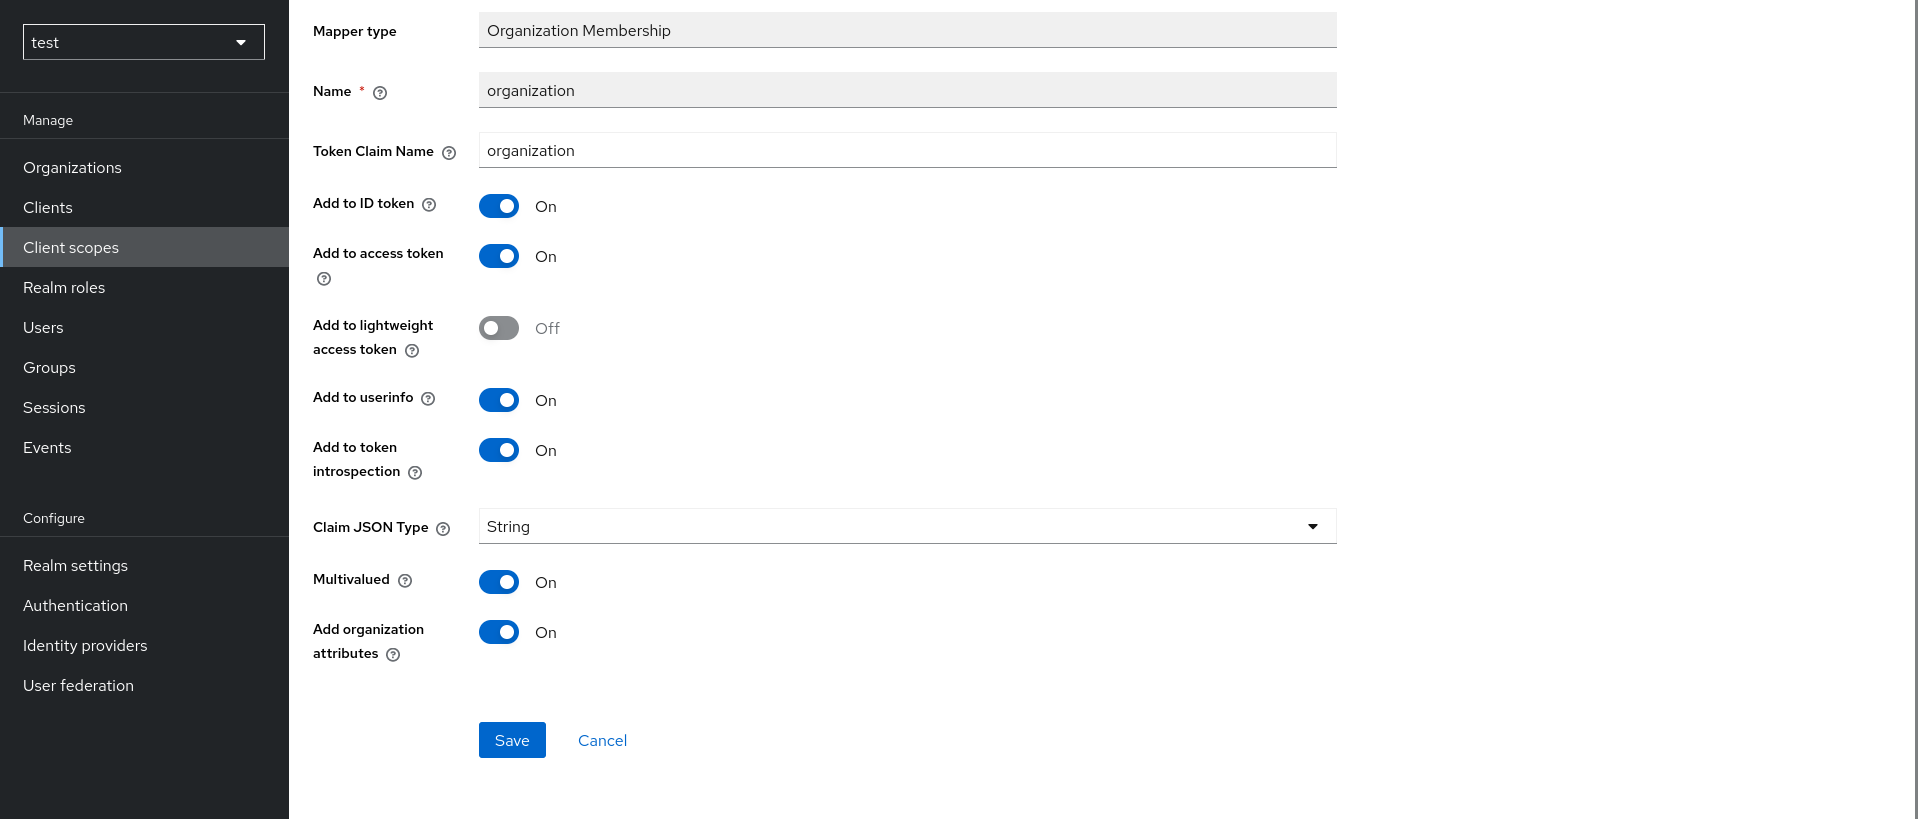
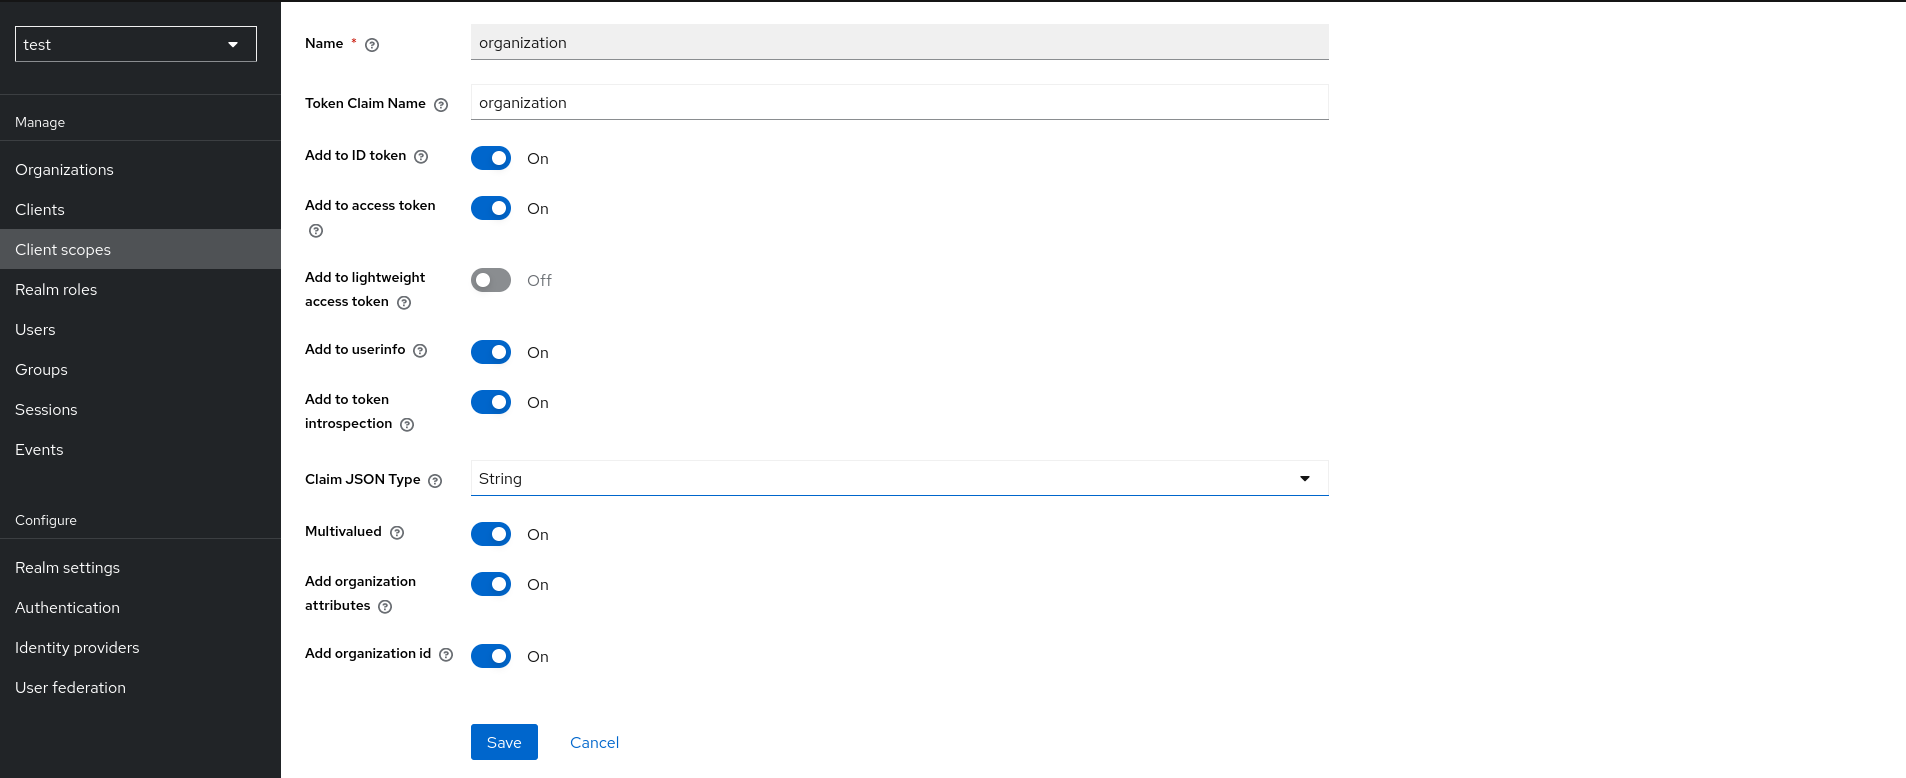
Add option to include the organization id in the organization claims
Closes #32746

diff --git a/testsuite/integration-arquillian/tests/base/src/test/java/org/keycloak/testsuite/organization/mapper/OrganizationOIDCProtocolMapperTest.java b/testsuite/integration-arquillian/tests/base/src/test/java/org/keycloak/testsuite/organization/mapper/OrganizationOIDCProtocolMapperTest.java
@@ -20,6 +20,7 @@ package org.keycloak.testsuite.organization.mapper;
 import static org.hamcrest.MatcherAssert.assertThat;
 import static org.hamcrest.Matchers.containsInAnyOrder;
 import static org.hamcrest.Matchers.containsString;
+import static org.hamcrest.Matchers.equalTo;
 import static org.hamcrest.Matchers.hasItem;
 import static org.hamcrest.Matchers.is;
 import static org.hamcrest.Matchers.not;
@@ -448,6 +449,47 @@ public class OrganizationOIDCProtocolMapperTest extends AbstractOrganizationTest
         accessToken = TokenVerifier.create(response.getAccessToken(), AccessToken.class).getToken();
         assertThat(accessToken.getOtherClaims().keySet(), hasItem(OAuth2Constants.ORGANIZATION));
         organizations = (Map<String, Map<String, List<String>>>) accessToken.getOtherClaims().get(OAuth2Constants.ORGANIZATION);
+        assertThat(organizations.keySet(), hasItem(organizationName));
+        assertThat(organizations.get(organizationName).keySet().isEmpty(), is(true));
+    }
+
+    @Test
+    @SuppressWarnings("unchecked")
+    public void testIncludeOrganizationId() throws Exception {
+        OrganizationRepresentation orgRep = createOrganization();
+        OrganizationResource organization = testRealm().organizations().get(orgRep.getId());
+        addMember(organization);
+        setMapperConfig(OrganizationMembershipMapper.ADD_ORGANIZATION_ID, Boolean.TRUE.toString());
+
+        oauth.clientId("direct-grant");
+        oauth.scope("openid organization");
+        AccessTokenResponse response = oauth.doGrantAccessTokenRequest("password", memberEmail, memberPassword);
+        assertThat(response.getScope(), containsString("organization"));
+        AccessToken accessToken = TokenVerifier.create(response.getAccessToken(), AccessToken.class).getToken();
+        assertThat(accessToken.getOtherClaims().keySet(), hasItem(OAuth2Constants.ORGANIZATION));
+        Map<String, Map<String, String>> organizations = (Map<String, Map<String, String>>) accessToken.getOtherClaims().get(OAuth2Constants.ORGANIZATION);
+        assertThat(organizations.keySet(), hasItem(organizationName));
+        assertThat(organizations.get(organizationName).keySet(), hasItem("id"));
+        assertThat(organizations.get(organizationName).get("id"), equalTo(orgRep.getId()));
+
+        // when id is added to tokens, the claim type is a json regardless of the value set in the config
+        setMapperConfig(OrganizationMembershipMapper.ADD_ORGANIZATION_ID, Boolean.TRUE.toString());
+        setMapperConfig(OIDCAttributeMapperHelper.JSON_TYPE, "boolean");
+        response = oauth.doGrantAccessTokenRequest("password", memberEmail, memberPassword);
+        accessToken = TokenVerifier.create(response.getAccessToken(), AccessToken.class).getToken();
+        assertThat(accessToken.getOtherClaims().keySet(), hasItem(OAuth2Constants.ORGANIZATION));
+        organizations = (Map<String, Map<String, String>>) accessToken.getOtherClaims().get(OAuth2Constants.ORGANIZATION);
+        assertThat(organizations.keySet(), hasItem(organizationName));
+        assertThat(organizations.get(organizationName).keySet(), hasItem("id"));
+        assertThat(organizations.get(organizationName).get("id"), equalTo(orgRep.getId()));
+
+        // disabling the attribute should result in no ids in the claims.
+        setMapperConfig(OrganizationMembershipMapper.ADD_ORGANIZATION_ID, Boolean.FALSE.toString());
+        setMapperConfig(OIDCAttributeMapperHelper.JSON_TYPE, "JSON");
+        response = oauth.doGrantAccessTokenRequest("password", memberEmail, memberPassword);
+        accessToken = TokenVerifier.create(response.getAccessToken(), AccessToken.class).getToken();
+        assertThat(accessToken.getOtherClaims().keySet(), hasItem(OAuth2Constants.ORGANIZATION));
+        organizations = (Map<String, Map<String, String>>) accessToken.getOtherClaims().get(OAuth2Constants.ORGANIZATION);
         assertThat(organizations.keySet(), hasItem(organizationName));
         assertThat(organizations.get(organizationName).keySet().isEmpty(), is(true));
     }

diff --git a/services/src/main/java/org/keycloak/organization/protocol/mappers/oidc/OrganizationMembershipMapper.java b/services/src/main/java/org/keycloak/organization/protocol/mappers/oidc/OrganizationMembershipMapper.java
@@ -56,6 +56,7 @@ public class OrganizationMembershipMapper extends AbstractOIDCProtocolMapper imp
 
     public static final String PROVIDER_ID = "oidc-organization-membership-mapper";
     public static final String ADD_ORGANIZATION_ATTRIBUTES = "addOrganizationAttributes";
+    public static final String ADD_ORGANIZATION_ID = "addOrganizationId";
 
     @Override
     public List<ProviderConfigProperty> getConfigProperties() {
@@ -76,6 +77,13 @@ public class OrganizationMembershipMapper extends AbstractOIDCProtocolMapper imp
         property.setType(ProviderConfigProperty.BOOLEAN_TYPE);
         property.setDefaultValue(Boolean.FALSE.toString());
         property.setHelpText(ADD_ORGANIZATION_ATTRIBUTES + ".help");
+        properties.add(property);
+        property = new ProviderConfigProperty();
+        property.setName(ADD_ORGANIZATION_ID);
+        property.setLabel(ADD_ORGANIZATION_ID + ".label");
+        property.setType(ProviderConfigProperty.BOOLEAN_TYPE);
+        property.setDefaultValue(Boolean.FALSE.toString());
+        property.setHelpText(ADD_ORGANIZATION_ID + ".help");
         properties.add(property);
         return properties;
     }
@@ -137,7 +145,7 @@ public class OrganizationMembershipMapper extends AbstractOIDCProtocolMapper imp
         }
 
         if (!OIDCAttributeMapperHelper.isMultivalued(model)) {
-            return organizations.get(0).getName();
+            return organizations.get(0).getAlias();
         }
 
         Map<String, Map<String, Object>> value = new HashMap<>();
@@ -147,13 +155,16 @@ public class OrganizationMembershipMapper extends AbstractOIDCProtocolMapper imp
                 continue;
             }
 
-            Map<String, Object> attributes = Map.of();
+            Map<String, Object> claims = new HashMap<>();
 
+            if (isAddOrganizationId(model)) {
+                claims.put(OAuth2Constants.ORGANIZATION_ID, o.getId());
+            }
             if (isAddOrganizationAttributes(model)) {
-                attributes = new HashMap<>(o.getAttributes());
+                claims.putAll(o.getAttributes());
             }
 
-            value.put(o.getAlias(), attributes);
+            value.put(o.getAlias(), claims);
         }
 
         if (value.isEmpty()) {
@@ -181,9 +192,10 @@ public class OrganizationMembershipMapper extends AbstractOIDCProtocolMapper imp
 
         if (!OIDCAttributeMapperHelper.isMultivalued(copy)) {
             config.put(ADD_ORGANIZATION_ATTRIBUTES, Boolean.FALSE.toString());
+            config.put(ADD_ORGANIZATION_ID, Boolean.FALSE.toString());
         }
 
-        if (isAddOrganizationAttributes(copy)) {
+        if (isAddOrganizationAttributes(copy) || isAddOrganizationId(copy)) {
             config.put(JSON_TYPE, "JSON");
         }
 
@@ -206,6 +218,10 @@ public class OrganizationMembershipMapper extends AbstractOIDCProtocolMapper imp
 
     private boolean isAddOrganizationAttributes(ProtocolMapperModel model) {
         return Boolean.parseBoolean(model.getConfig().getOrDefault(ADD_ORGANIZATION_ATTRIBUTES, Boolean.FALSE.toString()));
+    }
+
+    private boolean isAddOrganizationId(ProtocolMapperModel model) {
+        return Boolean.parseBoolean(model.getConfig().getOrDefault(ADD_ORGANIZATION_ID, Boolean.FALSE.toString()));
     }
 
     public static ProtocolMapperModel create(String name, boolean accessToken, boolean idToken, boolean introspectionEndpoint) {

diff --git a/core/src/main/java/org/keycloak/OAuth2Constants.java b/core/src/main/java/org/keycloak/OAuth2Constants.java
@@ -93,6 +93,7 @@ public interface OAuth2Constants {
     String SCOPE_PHONE = "phone";
 
     String ORGANIZATION = "organization";
+    String ORGANIZATION_ID = "id";
 
     String UI_LOCALES_PARAM = "ui_locales";
 
